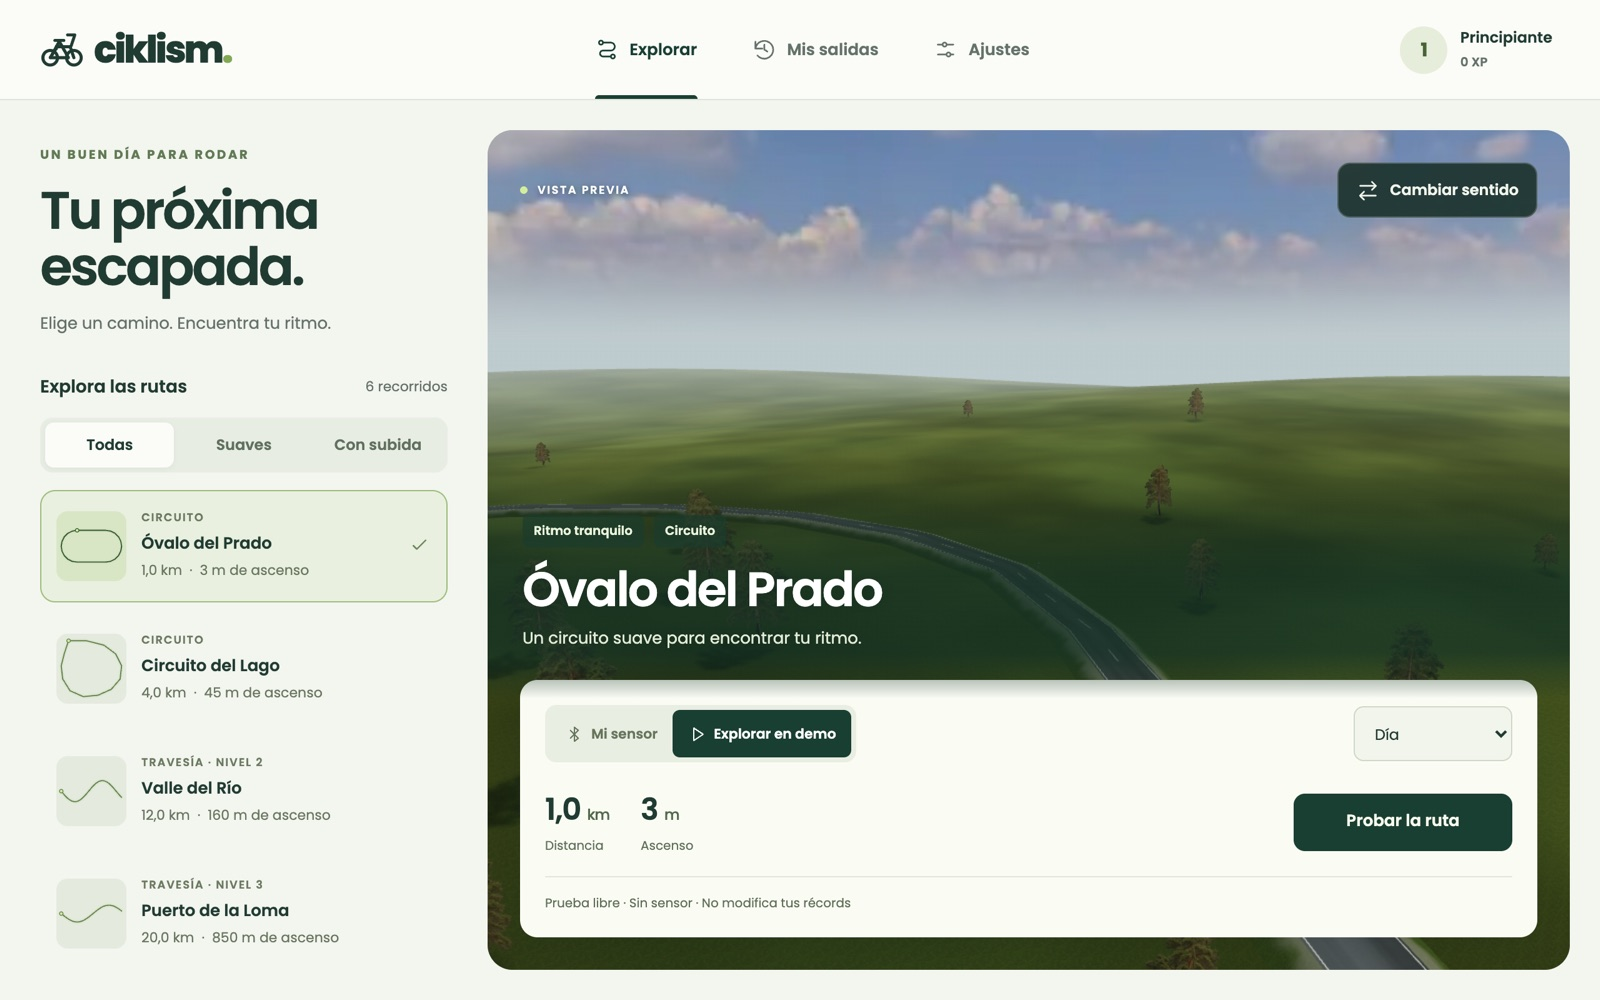
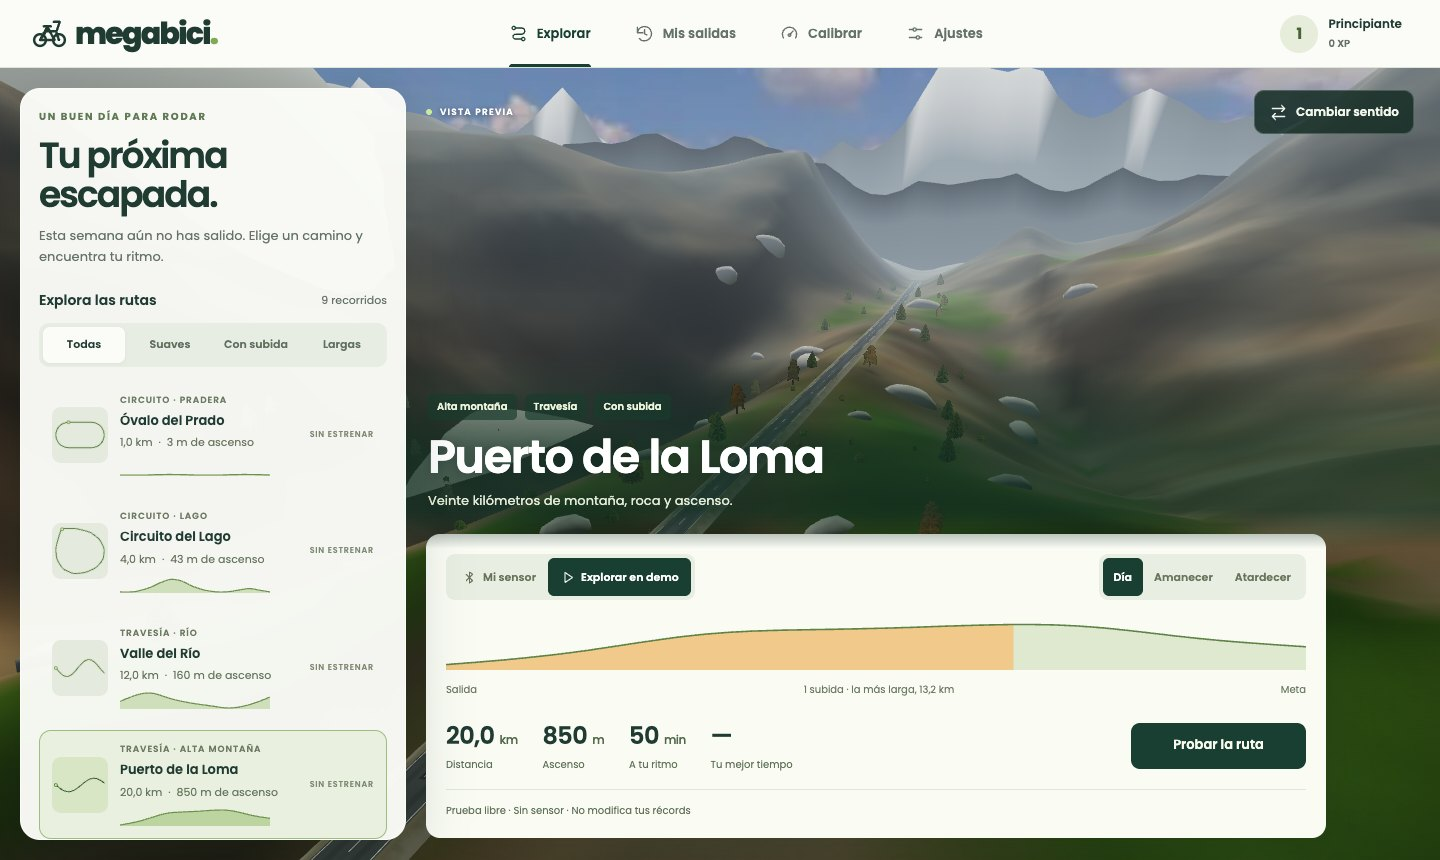
Update the screenshots and rendering notes
The README images show the current home screen, ride HUD, rivals and
scenery. The rendering notes cover the three long courses, rounded
roads, zoned scenery, the terrain colours and the new tree mix.

diff --git a/docs/rendering.md b/docs/rendering.md
@@ -18,6 +18,13 @@ Distances are measured along the geometry the rider follows.
 | Valle del Río | Point to point | 12 km | 160 m | River, banks, wooded slopes |
 | Puerto de la Ermita | Circuit | 15 km | 550 m | Warm hills and a chapel |
 | Puerto de la Loma | Point to point | 20 km | 850 m | Rocky mountain slopes |
+| Gran Vuelta de las Colinas | Circuit | 30 km | 380 m | Warm hills, villages, wind turbines |
+| Travesía del Valle Largo | Point to point | 45 km | 230 m | River, banks, wooded slopes |
+| Gran Fondo de la Sierra | Point to point | 60 km | 1250 m | Mountain road with real bends |
+
+The three long courses are generated by `scripts/make-routes.mjs`. Every
+corner of a course is rounded into a curve (`roadLine` in `src/domain/route.ts`)
+and the plan view is stretched back so the advertised distance is kept.
 
 Landscapes are procedural, not geographic reconstructions. Routes carry a
 `revision`; records are keyed by `route@revision`, so a reshaped course never
@@ -30,18 +37,30 @@ compares times with the old one while history and XP are kept.
   edge, so there are no cracks or lighting seams between resolutions.
 - A single height field drives terrain, banks, water and the offline baker, so
   overlapping legs of a circuit cannot cover each other.
-- Construction yields to the browser between tiles. Reversing a route reuses
-  the same meshes and lightmap; only the rider and camera change.
+- Scenery is split into zones that are built when the rider gets near and
+  released once they are well behind, a few milliseconds per frame. Memory and
+  loading time therefore do not grow with the length of the course. Reversing
+  a route reuses the same scenery and lightmap; only the rider, the camera and
+  the direction-dependent signs (arches, sector banners, kilometre boards) change.
+- The height field finds the nearest road segment through a grid index, so its
+  cost does not grow with the number of segments either.
+- Relief rises away from the road. Vertex colours carry a patchwork of crops on
+  gentle farmland, bare rock on steep ground and, in the mountains, grass low
+  down and snow on top.
 - Trees are crossed photographic cutouts with thin instances per spatial batch
   (six triangles near the rider, four far away, 3D bark close by). Each batch
-  owns its geometry because Babylon stores thin-instance matrices there.
+  owns its geometry because Babylon stores thin-instance matrices there. Three
+  kinds are mixed per landscape, gathered in groves, each instance with its own
+  tint; low bushes fill the ground in between.
+- Riders, houses, animals, fences and signs are primitives merged into one mesh
+  each, coloured per vertex and lit by the scene lights.
 - Water is opaque with animated normals in the existing pass: no reflection
   camera, no extra render target.
 
 ## Lighting
 
-Static shadows are baked offline: 18 WebP maps (6 routes × 3 times of day,
-about 900 KB in total). There is no `ShadowGenerator` at runtime.
+Static shadows are baked offline: 27 WebP maps (9 routes × 3 times of day,
+about 3 MB in total). There is no `ShadowGenerator` at runtime.
 
 - **Bake time:** tree crowns projected onto the height field, fixed penumbra and
   contact occlusion under trees.

diff --git a/README.md b/README.md
@@ -6,7 +6,7 @@ An indoor cycling viewer for web, iPhone and Android. A Bluetooth cadence sensor
 
 MegaBici was first released as Ciklism; the repository keeps that name.
 
-![Riding the meadow circuit in demo mode](docs/images/ride.jpg)
+![Riding past a village on the hills circuit, in demo mode](docs/images/ride.jpg)
 
 <p>
   <img src="docs/images/home.jpg" alt="Route catalogue and 3D preview" width="78%">
